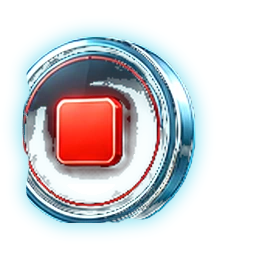
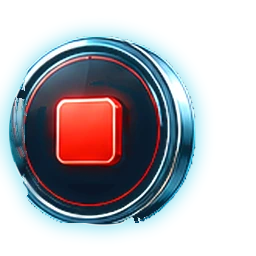
Solidify button rims and make faces opaque; bump dashboard cache busters
Round 2 of the fan icon fix after the user reported the ring still looked
broken when the image is viewed on a light background:

- circle-fit the outer rim radius so the cut left arc is rebuilt on the
  true outline (no more notches at the gap seams)
- polar-mirror the strong right rim onto weak left angles so the chrome
  ring is solid all the way around
- back the semi-transparent glass face with an opaque dark navy disk so
  the icon reads the same on any background
- dashboard image refs bumped to ?v=fanfix_3 (HA serves /local with a
  31-day max-age; the old ?v=fanfix_1 URLs kept serving cached copies)

Claude-Session: https://claude.ai/code/session_01NcvcQmHbdW7P2JNLvsq1Qo

Changed region(s): [[0.0, 0.125, 0.7812, 0.9062], [0.6875, 0.6875, 0.7188, 0.7188], [0.5, 0.1562, 0.5312, 0.1875]]

diff --git a/tools/fix_fan_icons.py b/tools/fix_fan_icons.py
@@ -46,6 +46,23 @@ def fix_button(src,dst):
     idx=np.arange(NT); good=~gap
     r_t=np.interp(idx, idx[good], r_out[good], period=NT)
     r_t=circular_smooth(r_t, 8)
+    # robust circle fit (Kasa) on reliable boundary angles (exclude cut gap and right side-wall bulge)
+    relia=good&(np.cos(th)<0.55)&(r_out>0)
+    bxp=cx+np.cos(th[relia])*r_out[relia]; byp=cy+np.sin(th[relia])*r_out[relia]
+    A=np.c_[bxp,byp,np.ones(len(bxp))]
+    b=bxp**2+byp**2
+    sol=np.linalg.lstsq(A,b,rcond=None)[0]
+    fcx,fcy=sol[0]/2,sol[1]/2
+    fR=np.sqrt(sol[2]+fcx**2+fcy**2)
+    # radius of fitted circle along each ray from (cx,cy)
+    dxc,dyc=fcx-cx,fcy-cy
+    proj=dxc*np.cos(th)+dyc*np.sin(th)
+    perp2=(dxc**2+dyc**2)-proj**2
+    r_fit=proj+np.sqrt(np.maximum(fR**2-perp2,0))
+    # on the left half the true outline is the fitted circle; keep protrusions (e.g. timer crown)
+    left=np.cos(th)<0.2
+    r_t=np.where(left, np.maximum(r_fit, np.where(gap,0,r_out)), r_t)
+    r_t=np.maximum(circular_smooth(r_t, 6), np.where(gap,0,r_out))
     # donor angles for fill
     gi=np.where(gap)[0]
     if len(gi):
@@ -86,6 +103,40 @@ def fix_button(src,dst):
     r_tar=r_t[ti]
     lum=im[...,:3]@np.array([.299,.587,.114])
     annw=smoothstep((rad-0.86*r_tar)/(0.04*r_tar))*smoothstep((r_tar+1-rad)/(0.04*r_tar))*sm
+    # --- polar mirror: rebuild weak rim angles from the strong (right) side ---
+    band=smoothstep((rad-0.835*r_tar)/(0.03*r_tar))*smoothstep((r_tar*1.005-rad)/(0.03*r_tar))
+    sel0=band>0.3
+    bl=np.zeros(NT)
+    t0=ti[sel0]; l0=lum[sel0]
+    o=np.argsort(t0); ts,ls=t0[o],l0[o]
+    u0,s0=np.unique(ts,return_index=True)
+    for i,u in enumerate(u0):
+        en=s0[i+1] if i+1<len(u0) else len(ts)
+        bl[u]=np.percentile(ls[s0[i]:en],90)
+    bl[bl==0]=np.nan
+    medl=np.nanmedian(bl)
+    weak=np.where(np.isnan(bl),1.0,(bl<0.72*medl).astype(float))
+    # only rebuild the left half of the ring; never touch the strong right side wall
+    weak=weak*(np.cos(th)<-0.05)
+    weak=np.clip(circular_smooth(weak,14)*1.6,0,1)*(np.cos(th)<0.05)
+    wmap=weak[ti]*band
+    py_,px_=np.where(wmap>0.02)
+    uu=rad[py_,px_]/np.maximum(r_tar[py_,px_],1e-6)
+    ath=ang[py_,px_]
+    sth=(np.pi-ath)%(2*np.pi)
+    sti=(sth/(2*np.pi)*NT).astype(int)%NT
+    srad=uu*r_t[sti]
+    sx=(cx+np.cos(sth)*srad); sy=(cy+np.sin(sth)*srad)
+    sxi=np.clip(sx.astype(int),0,W-1); syi=np.clip(sy.astype(int),0,H-1)
+    s_rgb=im[syi,sxi,:3]; s_a=im[syi,sxi,3]; s_sm=sm[syi,sxi]
+    wv=wmap[py_,px_]*np.clip(s_a/255,0,1)*np.maximum(s_sm,0.4)
+    im[py_,px_,:3]=im[py_,px_,:3]*(1-wv[:,None])+s_rgb*wv[:,None]
+    im[py_,px_,3]=np.maximum(im[py_,px_,3], s_a*wmap[py_,px_])
+    sm[py_,px_]=np.maximum(sm[py_,px_], (s_a>128)*wmap[py_,px_])
+    # soften seams inside the rebuilt zone
+    smoothed=np.dstack([blur(im[...,c],1.4) for c in range(4)])
+    wz=(wmap*0.65)[...,None]
+    im[...]=im*(1-wz)+smoothed*wz
     peak=np.zeros(NT)
     for t0 in range(NT):
         pass
@@ -110,10 +161,16 @@ def fix_button(src,dst):
     # replace everything outside with a fresh, symmetric ring glow
     inside=smoothstep((r_tar+1.0-rad)/2.0)
     disk=(rad<=r_tar).astype(float)
-    ga=new_glow(disk)*smoothstep((rad-(r_tar-2.0))/2.5)
+    # opaque dark backing disk so the glass face reads the same on any background
+    NAVY=np.array([10,21,38],float)
+    back_a=smoothstep((r_tar-1.0-rad)/2.0)*255
     ca=im[...,3:4]*inside[...,None]
-    oa=ca+ga[...,None]*(1-ca/255)
-    orgb=(im[...,:3]*ca+CYAN*ga[...,None]*(1-ca/255))/np.maximum(oa,1e-6)
+    # content over backing
+    fa=ca+back_a[...,None]*(1-ca/255)
+    frgb=(im[...,:3]*ca+NAVY*back_a[...,None]*(1-ca/255))/np.maximum(fa,1e-6)
+    ga=new_glow(disk)*smoothstep((rad-(r_tar-2.0))/2.5)
+    oa=fa+ga[...,None]*(1-fa/255)
+    orgb=(frgb*fa+CYAN*ga[...,None]*(1-fa/255))/np.maximum(oa,1e-6)
     out=np.zeros_like(im); out[...,:3]=orgb; out[...,3]=oa[...,0]
     save(out,dst)
 
@@ -124,7 +181,7 @@ def fix_on_fan(src,dst,lo=215,hi=248):
     save(over_glow(im,sil,ga),dst)
 
 
-import os
+import os, shutil
 SRC = '/config/www/tiles_chrome_v2'
 WEBP = '/config/www/tiles_chrome_v2_webp'
 BAK = '/config/www/tiles_chrome_v2_before_stroke_fix'
@@ -137,17 +194,15 @@ TARGETS = [
     ('stand_fan_sys3d_on', 'fan'),
     ('wall_fan_sys3d_on', 'fan'),
 ]
-import shutil
 for name, kind in TARGETS:
     png = f'{SRC}/{name}.png'
     bak = f'{BAK}/{name}.png'
     if not os.path.exists(bak):
         shutil.copy2(png, bak)
-    out_png = png  # overwrite source
     if kind == 'button':
-        fix_button(bak, out_png)
+        fix_button(bak, png)
     else:
-        fix_on_fan(bak, out_png)
-    Image.open(out_png).save(f'{WEBP}/{name}.webp', quality=92, method=6)
-    print('fixed', name, os.path.getsize(out_png), os.path.getsize(f'{WEBP}/{name}.webp'))
+        fix_on_fan(bak, png)
+    Image.open(png).save(f'{WEBP}/{name}.webp', quality=92, method=6)
+    print('fixed', name, os.path.getsize(png), os.path.getsize(f'{WEBP}/{name}.webp'))
 print('ALL DONE')
